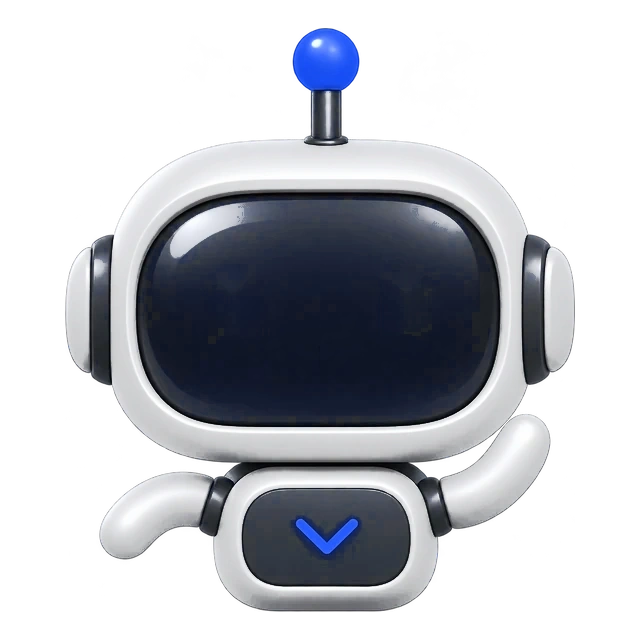
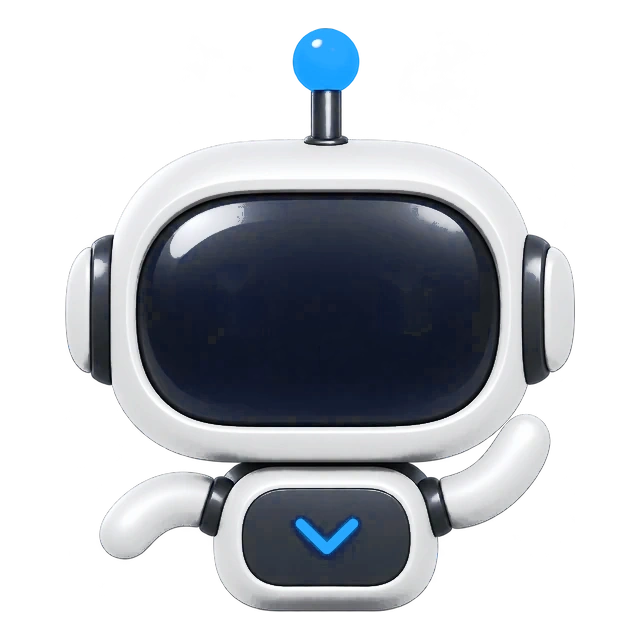
style(web): brighten xiaoxu mascot to luminous azure blue (#28)

Changed region(s): [[0.4375, 0.0312, 0.5625, 0.1562], [0.4375, 0.8125, 0.5625, 0.875]]

diff --git a/apps/web/src/sidebar-assistant.css b/apps/web/src/sidebar-assistant.css
@@ -101,11 +101,11 @@
   width: 100%;
   height: 100%;
   border-radius: 999px;
-  background: #1668ff;
+  background: #29b6ff;
   box-shadow:
-    0 0 0.6px #1668ff,
-    0 0 2px rgb(22 104 255 / 85%),
-    0 0 5px rgb(22 104 255 / 50%);
+    0 0 0.8px #70d1ff,
+    0 0 3px rgb(41 182 255 / 95%),
+    0 0 6px rgb(41 182 255 / 60%);
   transform-origin: 50% 50%;
   animation: companion-blink 5.4s ease-in-out infinite;
 }
@@ -171,14 +171,14 @@
     var(--companion-mouth-x, 0px),
     var(--companion-mouth-y, 0px)
   );
-  filter: drop-shadow(0 0 0.6px #1668ff)
-    drop-shadow(0 0 2px rgb(22 104 255 / 80%))
-    drop-shadow(0 0 5px rgb(22 104 255 / 45%));
+  filter: drop-shadow(0 0 0.8px #70d1ff)
+    drop-shadow(0 0 3px rgb(41 182 255 / 90%))
+    drop-shadow(0 0 6px rgb(41 182 255 / 55%));
 }
 .companion-mouth-smile,
 .companion-mouth-open {
   fill: none;
-  stroke: #1668ff;
+  stroke: #29b6ff;
   stroke-linecap: round;
   stroke-linejoin: round;
 }
